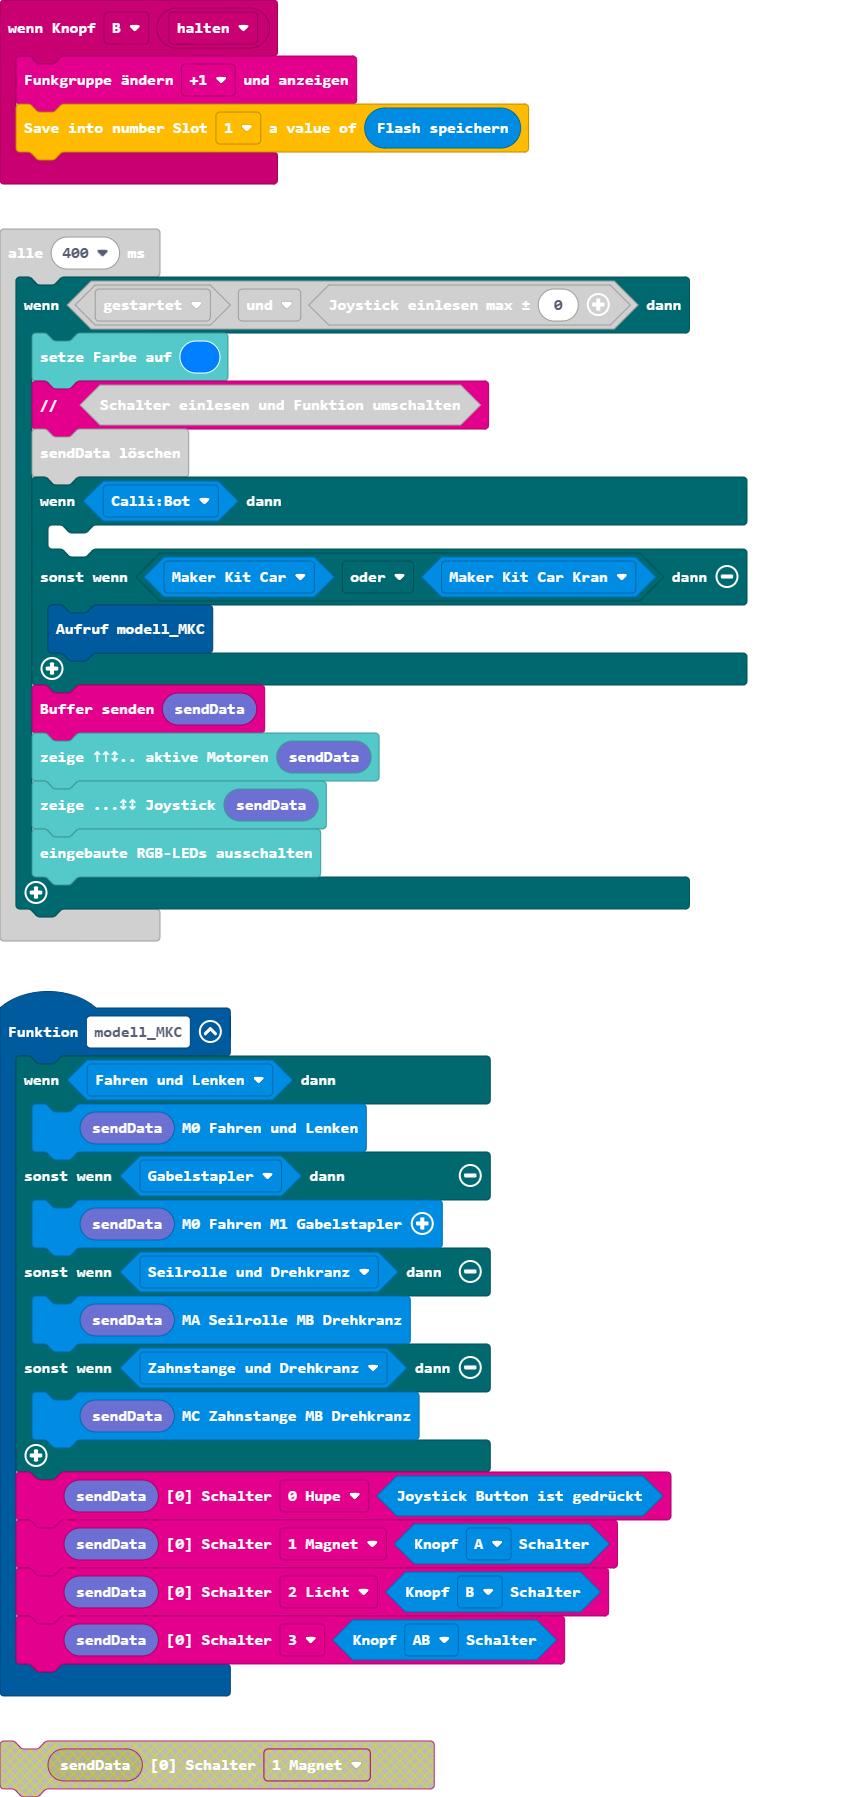
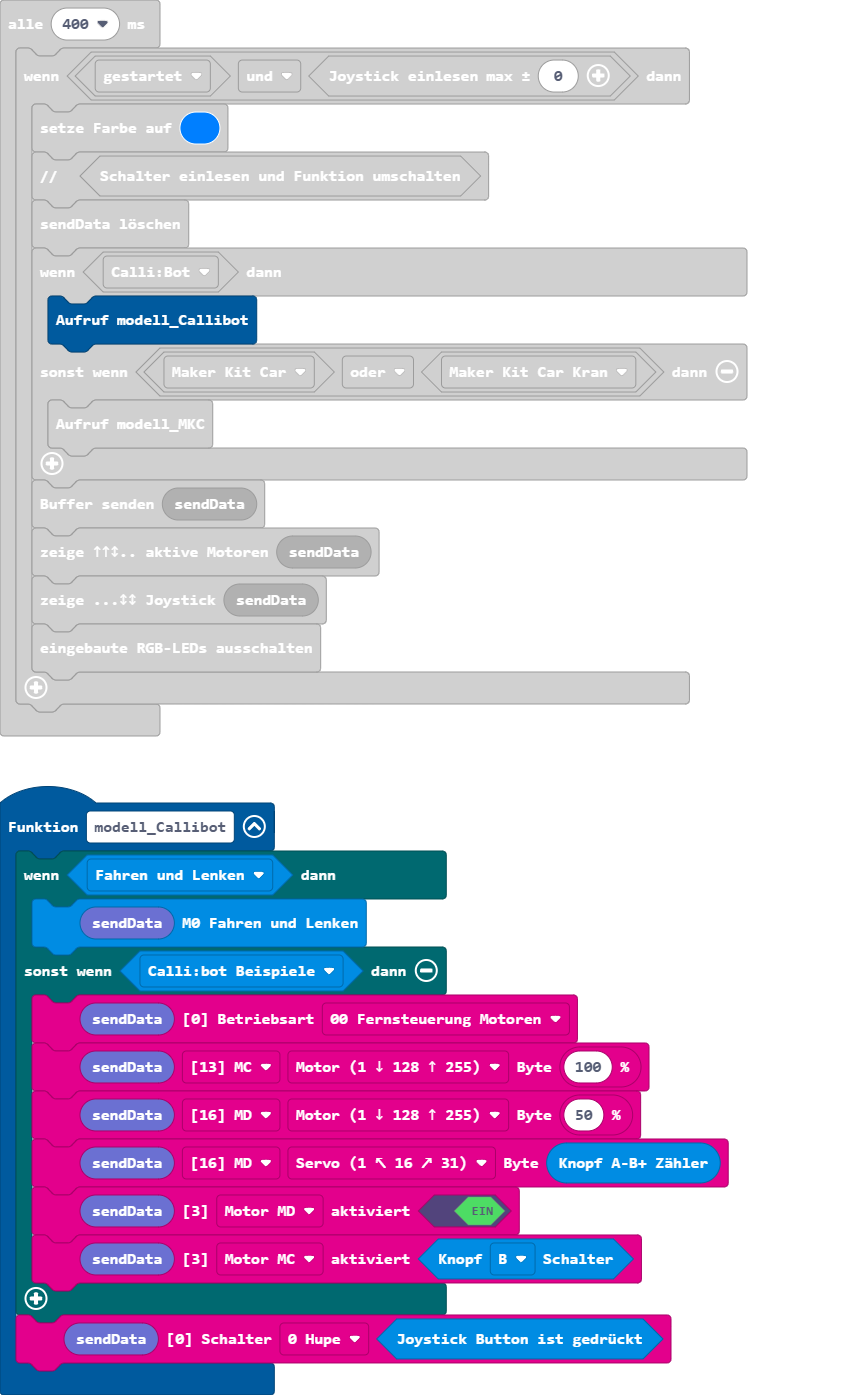
Aktualisiere main.blocks, main.ts

diff --git a/main.ts b/main.ts
@@ -1,3 +1,16 @@
+function modell_Callibot () {
+    if (sender.isFunktion(sender.eFunktion.m0_s0)) {
+        sender.sendM0(radio.radio_sendBuffer19())
+    } else if (sender.isFunktion(sender.eFunktion.mc_md_callibot_beispiele)) {
+        radio.setBetriebsart(radio.radio_sendBuffer19(), radio.e0Betriebsart.p0)
+        radio.setByte(radio.radio_sendBuffer19(), radio.eBufferPointer.mc, radio.eBufferOffset.b0_Motor, radio.speedPicker(100))
+        radio.setByte(radio.radio_sendBuffer19(), radio.eBufferPointer.md, radio.eBufferOffset.b0_Motor, radio.speedPicker(50))
+        radio.setByte(radio.radio_sendBuffer19(), radio.eBufferPointer.md, radio.eBufferOffset.b1_Servo, sender.getButtonAB_Counter())
+        radio.setaktiviert(radio.radio_sendBuffer19(), radio.e3aktiviert.md, true)
+        radio.setaktiviert(radio.radio_sendBuffer19(), radio.e3aktiviert.mc, sender.getButtonAB_Switch(sender.eButtonAB_Switch.B))
+    }
+    radio.setSchalter(radio.radio_sendBuffer19(), radio.e0Schalter.b0, sender.joystickButtonPosition())
+}
 input.onButtonEvent(Button.A, input.buttonEventClick(), function () {
     if (sender.buttonB()) {
         storage.putNumber(StorageSlots.s1, sender.storageBufferGet())
@@ -48,7 +61,7 @@ loops.everyInterval(400, function () {
         radio.comment(sender.multiswitchGrove())
         radio.fill_sendBuffer19()
         if (sender.isModell(sender.eModell.cb2e)) {
-        	
+            modell_Callibot()
         } else if (sender.isModell(sender.eModell.mkcg) || sender.isModell(sender.eModell.mkck)) {
             modell_MKC()
         }
